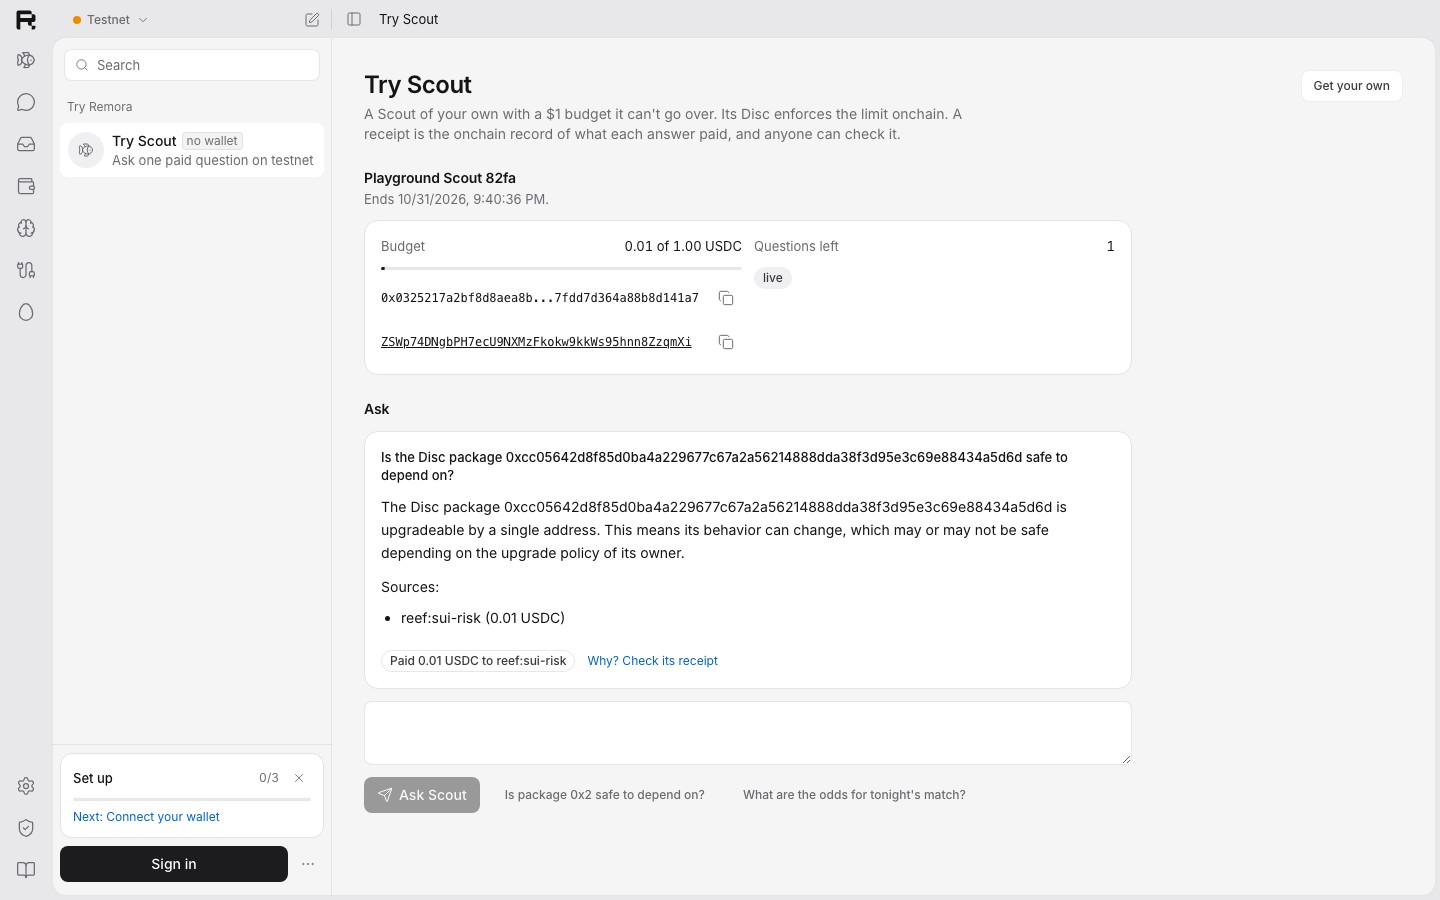
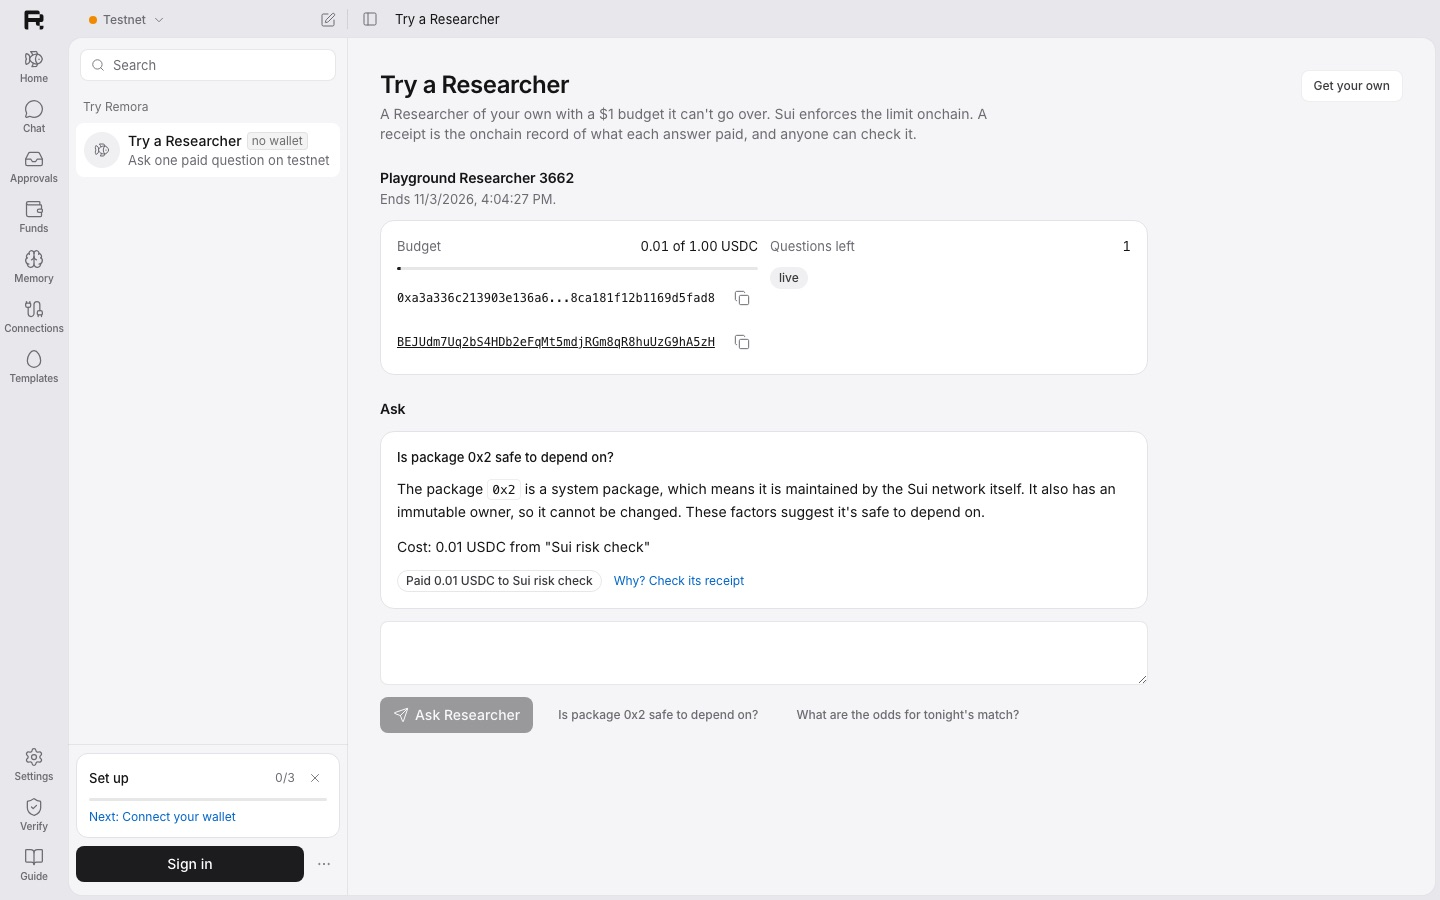
[L3·H6·e2e·docs] The demo asks the playground's own question (is package 0x2 safe?), since the Disc package's report needs history the public fullnode pruned; the landing page's screens are re-shot on Nov 3 with the faces and the plain words; the local test remoras carry the new names

diff --git a/e2e/tests/demo.spec.ts b/e2e/tests/demo.spec.ts
@@ -216,9 +216,11 @@ async function remoras(page: Page): Promise<R[]> {
   });
 }
 
-/** The testnet Disc package: Scout's sui-risk report on it is a real finding (a single-address upgrade cap). */
-const QUESTION =
-  "Is the package 0xcc05642d8f85d0ba4a229677c67a2a56214888dda38f3d95e3c69e88434a5d6d safe to depend on?";
+/**
+ * The playground's own suggestion. The Disc package's report (a single-address upgrade cap) needs the
+ * publish transaction, which the public fullnode has pruned while Tatum answers 402 (ADR-0097).
+ */
+const QUESTION = "Is package 0x2 safe to depend on?";
 
 test.describe.configure({ mode: "serial" });
 

diff --git a/apps/landing/README.md b/apps/landing/README.md
@@ -6,7 +6,7 @@ page in the app's design system, built for Walrus Sites.
 - **Owner:** H6 is Huấn's lane. Uy's agent built this version when Uy asked (ADR-0087). See
   `docs/team-split.md` §2.
 - **Build.** `bun run --filter @remora/landing build` writes `dist/`. It contains:
-  - the page, `public/screens/` (real screens from the Oct 31 testnet runs) and the share image;
+  - the page, `public/screens/` (real screens from the Nov 3 testnet runs, with the faces and the plain words) and the share image;
   - `ws-resources.json`;
   - the demo video and its poster, when `bun docs/launch/demo/render.ts` has rendered them.
 - **Preview.** `open apps/landing/dist/index.html`.

diff --git a/docs/handoffs/2026-11-02-uy-to-huan-remora-faces.md b/docs/handoffs/2026-11-02-uy-to-huan-remora-faces.md
@@ -35,6 +35,6 @@
 ## To check
 - **The e2e selectors are unchanged.** The face is `aria-hidden`, adds no text, and keeps
   `data-slot="remora-avatar"`.
-- **The demo video shows the old letters** until Uy re-captures it.
+- **The demo video was re-captured on Nov 3** and shows the faces.
 - **The "Needs you" row has two badges:** openbot's inbox badge and the face's "!". Tell me if one
   should go.
